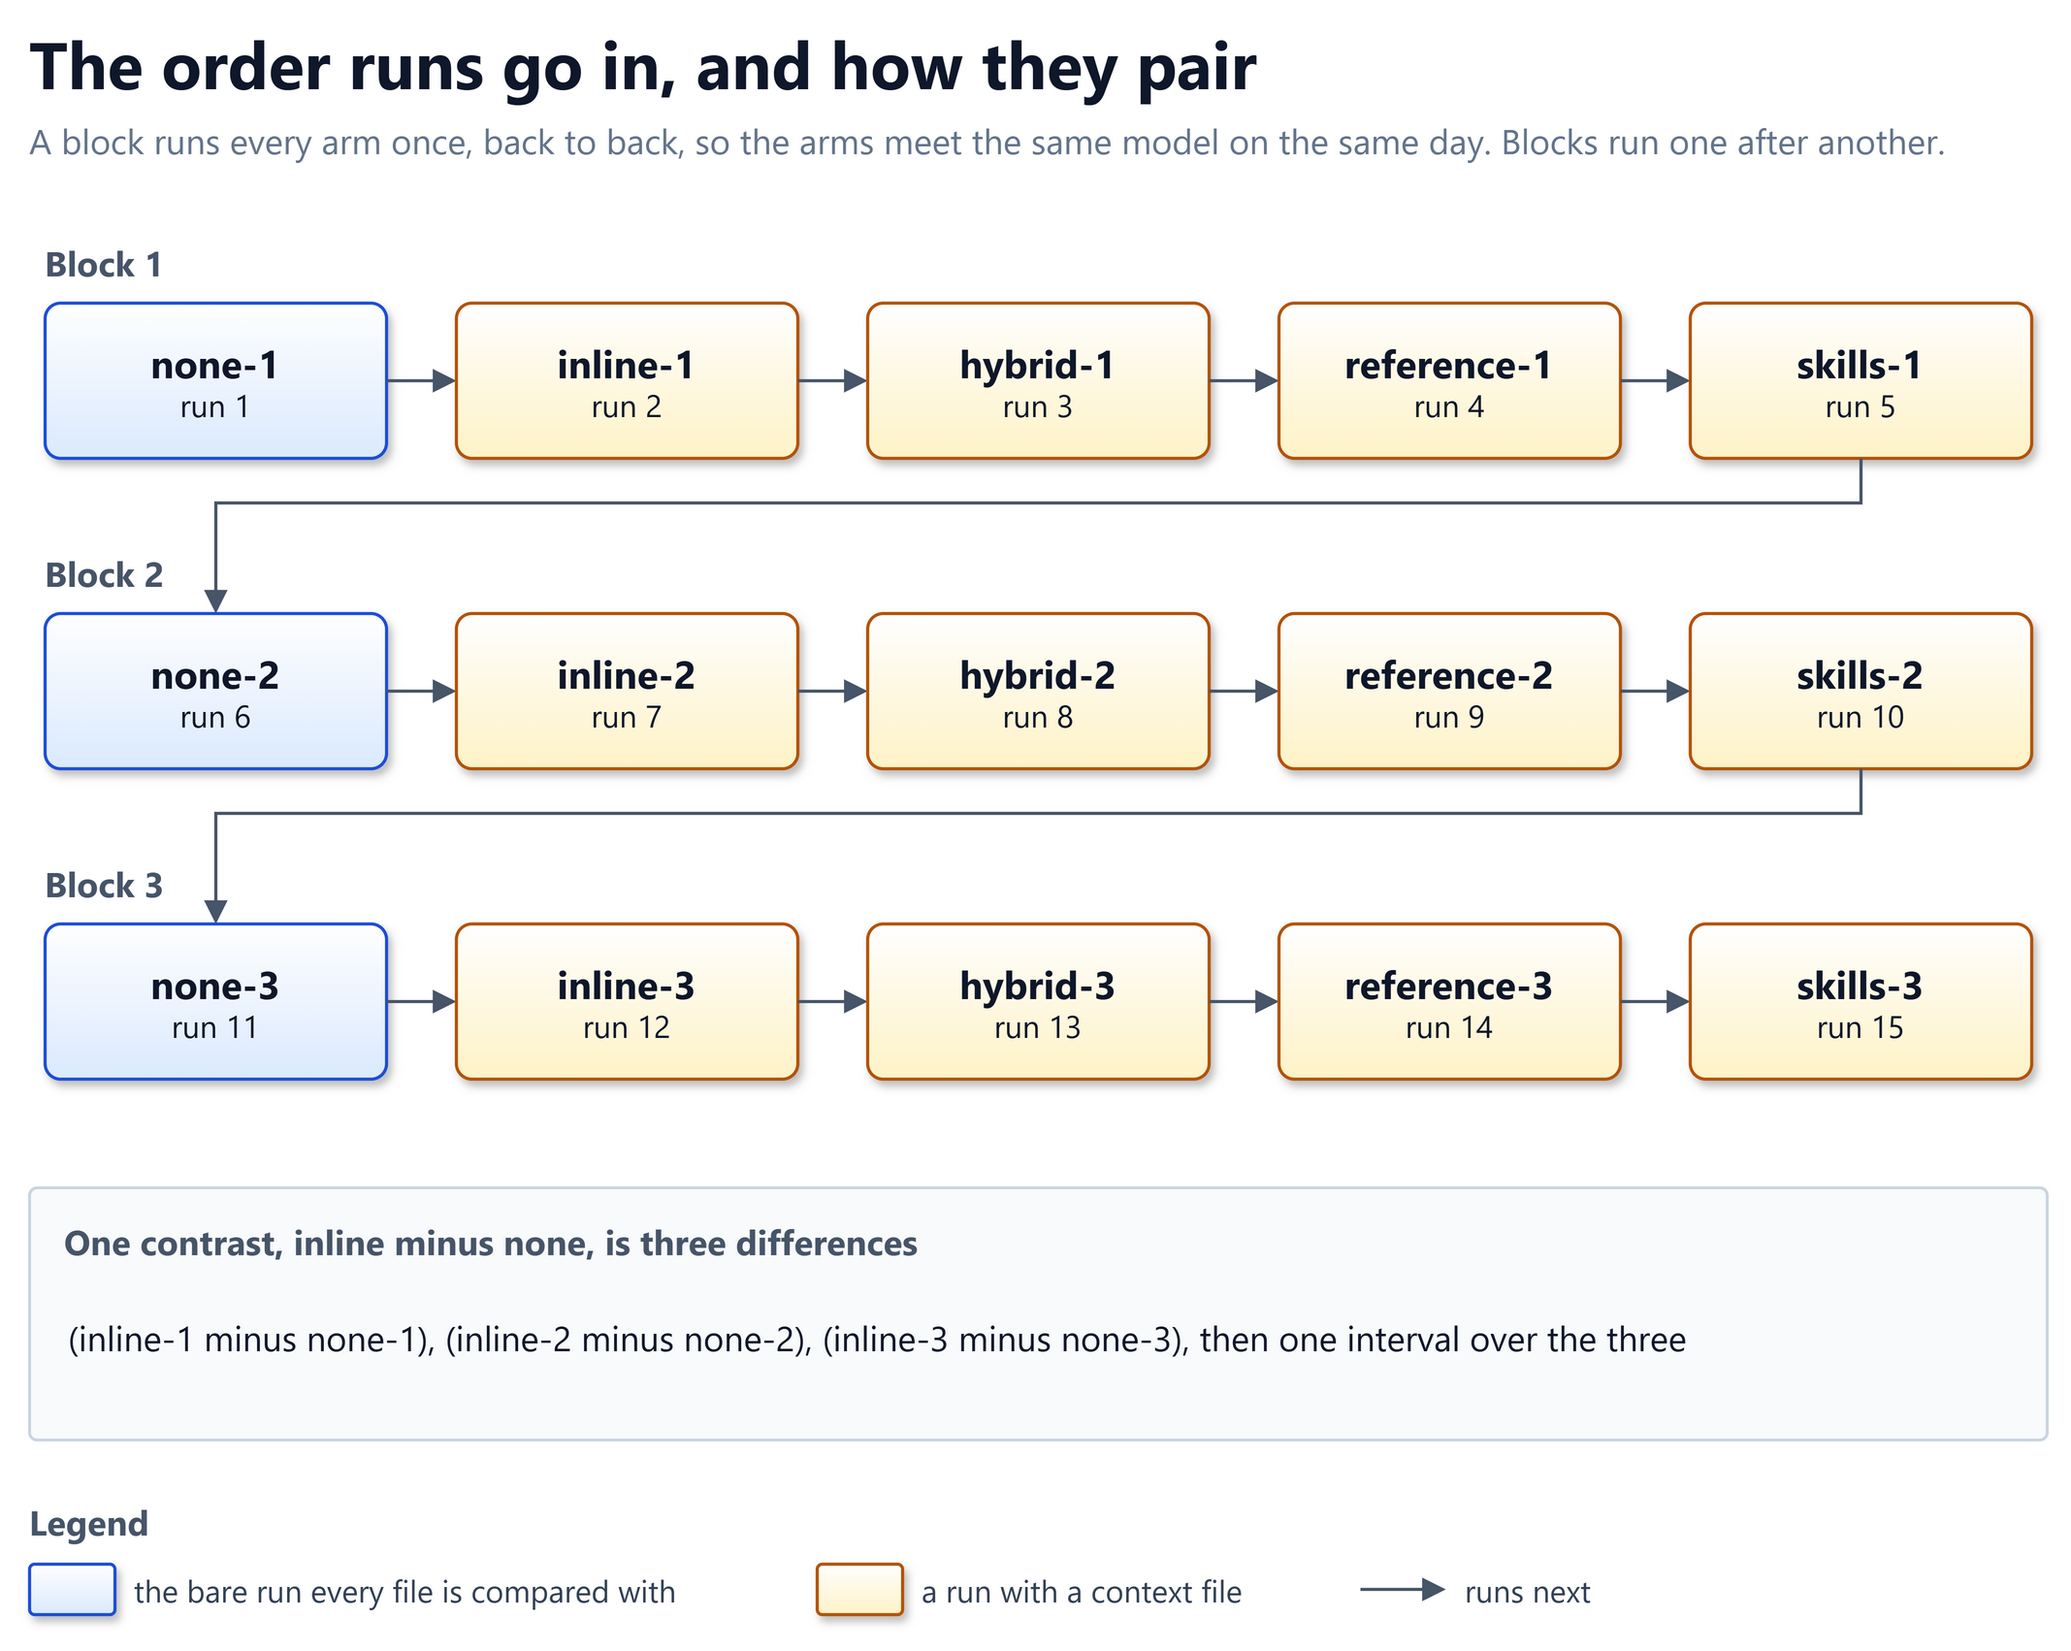
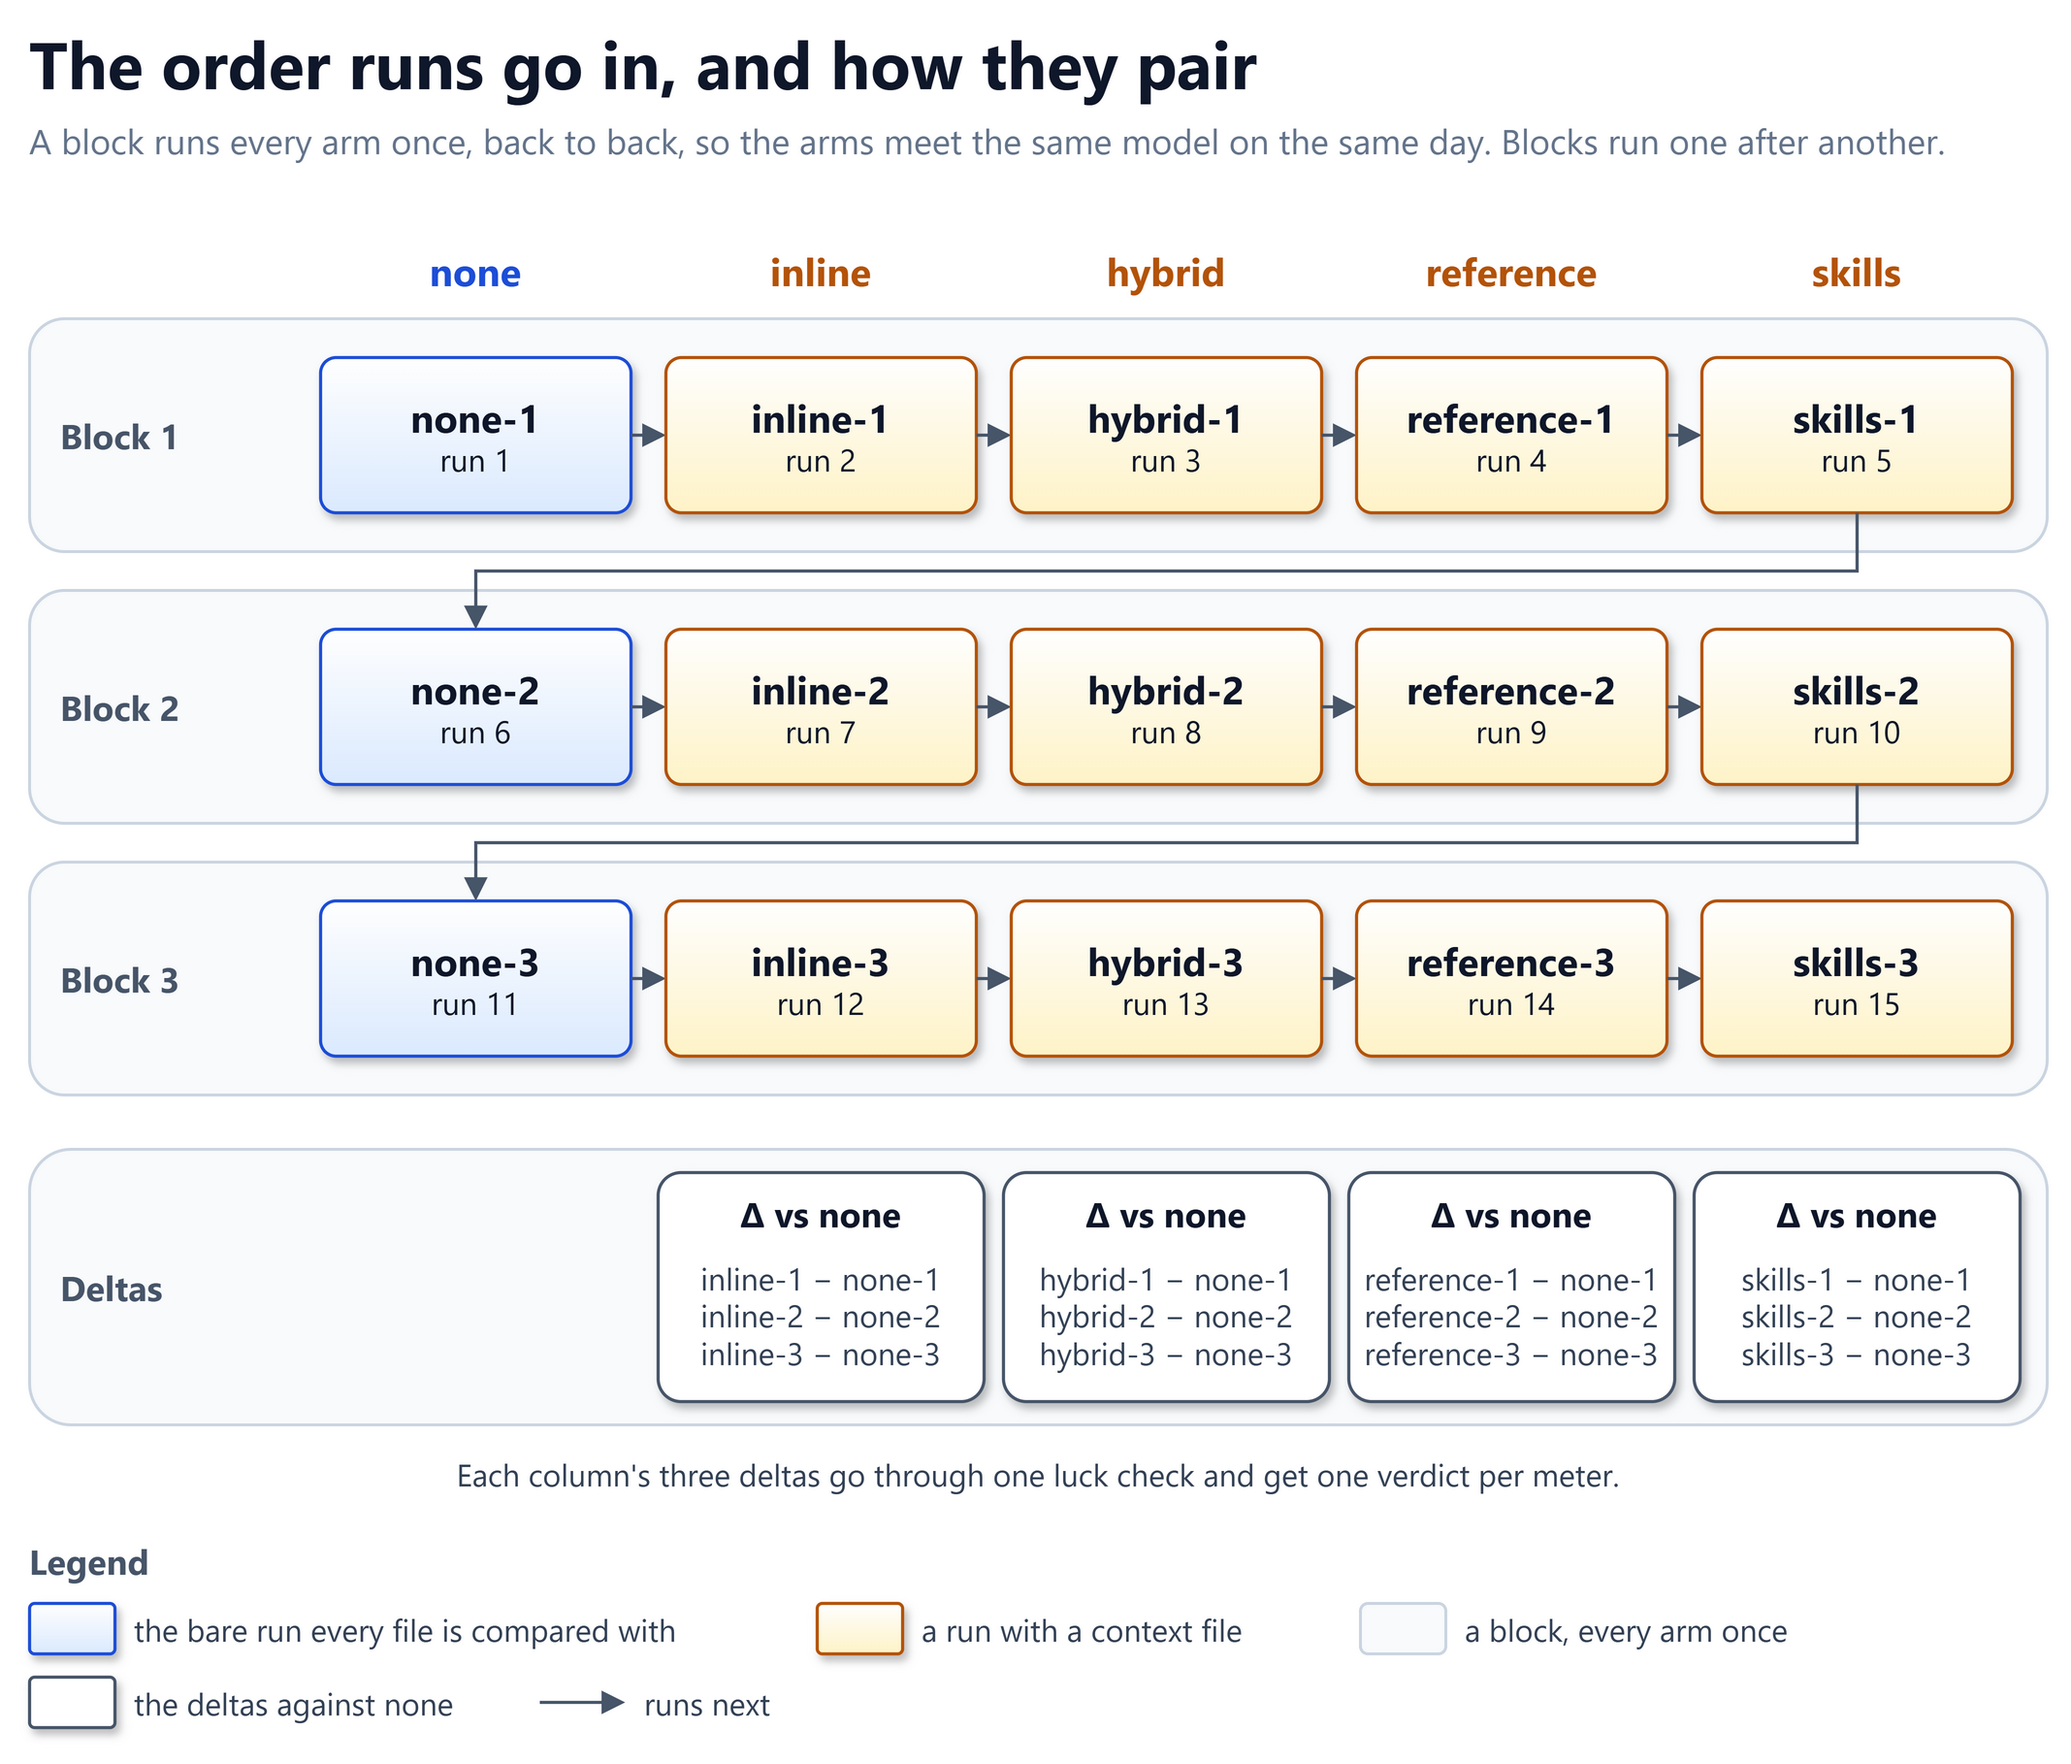
docs(primer): run order as blocks by arms with deltas, and the two verdict questions (#41)
* docs(primer): panel each block of the run-order diagram

Each block's five runs sit in a panel of their own, so a block reads as
one set of every arm. The contrast line now says luck check.

Claude-Session: https://claude.ai/code/session_01HVh8GVGd72WUJ3BvM7TXQn

* docs(primer): lay out the run order as blocks by arms

Rows are blocks and columns are arms, with the arm names as column
heads, so each arm's three runs line up under it.

Claude-Session: https://claude.ai/code/session_01HVh8GVGd72WUJ3BvM7TXQn

* docs(primer): show the deltas under each arm in the run order

Claude-Session: https://claude.ai/code/session_01HVh8GVGd72WUJ3BvM7TXQn

* docs(primer): drop the baseline note from the deltas row

Claude-Session: https://claude.ai/code/session_01HVh8GVGd72WUJ3BvM7TXQn

* docs(primer): say the blocks extend to any K

Claude-Session: https://claude.ai/code/session_01HVh8GVGd72WUJ3BvM7TXQn

* docs(primer): drop the note on the cap of K

Claude-Session: https://claude.ai/code/session_01HVh8GVGd72WUJ3BvM7TXQn

* docs(primer): explain not shown and held as answers to two questions

Claude-Session: https://claude.ai/code/session_01HVh8GVGd72WUJ3BvM7TXQn

---------

diff --git a/docs/primer.md b/docs/primer.md
@@ -176,7 +176,7 @@ Section 5 explains the comparison and the verdicts.
 
 ### 5.1 Pairs, not averages
 
-![Fifteen runs in three blocks, five arms per block, run one after another: none-1, inline-1, hybrid-1, reference-1 and skills-1, then block 2, then block 3. A contrast such as inline minus none is three differences, inline-1 minus none-1, inline-2 minus none-2 and inline-3 minus none-3, with one interval over the three](diagrams/run-order.png)
+![Fifteen runs in a grid, one row per block and one column per arm: none, inline, hybrid, reference and skills. Each block runs every arm once, then the next block starts. Below the grid, each context-file arm has three deltas against none, such as inline-1 minus none-1, inline-2 minus none-2 and inline-3 minus none-3, which go through one luck check and get one verdict per meter](diagrams/run-order.png)
 
 A model's behaviour drifts from day to day. So the arms take turns: block 1
 runs every arm once, back to back, then block 2, then block 3. Runs in one
@@ -186,22 +186,48 @@ The benchmark then compares partners, not averages. `inline-1` is compared
 with `none-1`, `inline-2` with `none-2`, and so on. Three differences come
 out, and those three decide.
 
+Three blocks are the smallest useful set, not a limit. The same pattern
+extends to any number K of blocks: 10 blocks give each arm 10 deltas, 20
+give 20. Each extra block adds one more run per arm, and the luck check
+gets sharper with every delta, as section 5.3 explains.
+
 ### 5.2 The four verdicts
 
 ![Five example rows, each with three dots for three pairs and a bar for the interval they allow. Two rows read Better: the bar lies wholly right of zero, once with the pairs nearly equal and once spread out. Not shown: the pairs disagree and the bar covers zero. Held: the same pairs, whose bar stays clear of the shaded loss past the margin. Worse: every pair got worse, and the bar lies wholly left of zero](diagrams/verdict.png)
 
-| Verdict | Means | Does not mean |
-| ------- | ----- | ------------- |
-| **Better** | Every reasonable reading of the pairs improved | That the gain is large |
-| **Worse** | Every reasonable reading got worse | That the context file is useless |
-| **Not shown** | The pairs disagree, so no direction is clear | That the two are equal |
-| **Held** | Not shown, and no loss beyond a set **margin** | That it improved |
-
 The bar is the luck check of the round-flow diagram. Its range is the
 **likely range**, which statisticians call a bootstrap interval: where the
-average difference would land if the runs were redone.
-The benchmark finds it by resampling the three differences thousands of
-times. A bar that covers zero cannot tell better from worse.
+average difference would land if the runs were redone. The benchmark finds
+it by resampling the differences thousands of times.
+
+The verdicts answer two different questions.
+
+**Did the context file change the result?**
+
+| Verdict | Means | Does not mean |
+| ------- | ----- | ------------- |
+| **Better** | The whole range is a gain | That the gain is large |
+| **Worse** | The whole range is a loss | That the context file is useless |
+| **Not shown** | The range covers zero: some reruns would gain, some would lose | That the two are equal. It is undecided |
+
+**Is it at least as good?**
+
+| Verdict | Means | Does not mean |
+| ------- | ----- | ------------- |
+| **Held** | Even the worst end of the range is a small loss, within a **margin** fixed in advance | That it improved |
+
+Not shown says there is no proof it is better. Held says there is proof it
+is not much worse. For hidden tests the margin is 2 points:
+
+| Likely range | Changed the result? | At least as good? |
+| ------------ | ------------------- | ----------------- |
+| +1 to +4 points | Better | Held |
+| −1 to +3 points | Not shown | Held: at worst 1 point lost, within the 2 tolerated |
+| −5 to +3 points | Not shown | Not held: up to 5 points could be lost |
+
+Held is what a trim of the templates, or round 5's question whether skills
+deliver what hybrid does, needs: a way to show two things are as good as
+each other, which not shown alone can never do.
 
 ### 5.3 Three runs are a signal
 
